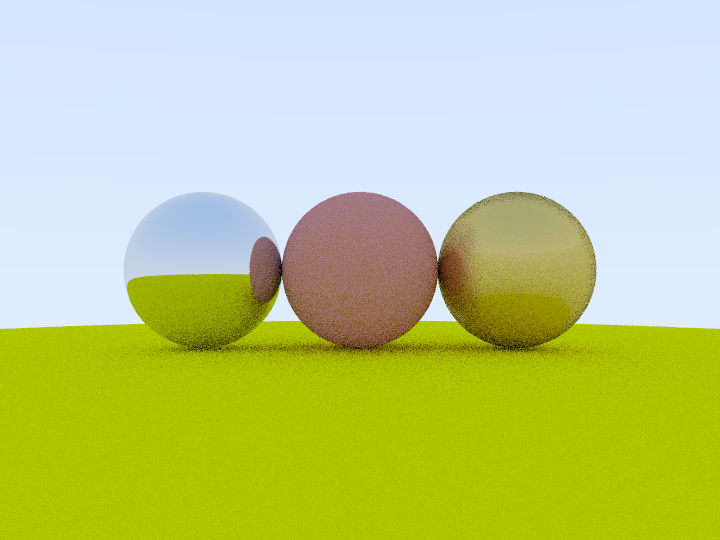
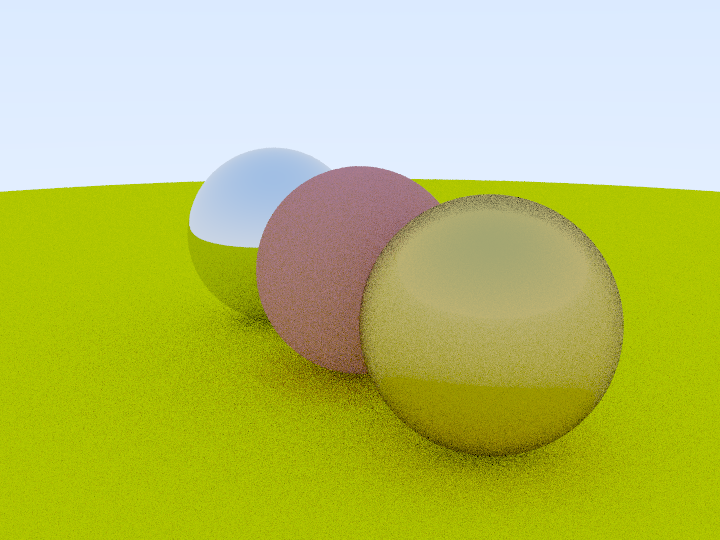
[MOD] 1. add blur for detph; 2. optimize code;

diff --git a/engine/rrt/RrtTest.cpp b/engine/rrt/RrtTest.cpp
@@ -56,11 +56,40 @@ void RrtTest::main()
 	path.append("/RrtTest.png");
 
 	RrtCamera camera;
-	camera.setPosition(glm::vec3(0.f, 0.f, 4.5f));
-	camera.setLookAt(glm::vec3(0.f, 0.f, -1.f));
+	camera.setPosition(glm::vec3(3.5f, 1.f, 2.f));
+	camera.setLookAt(glm::vec3(0.f, 0.f, 0.f));
 	camera.setViewportSize(glm::vec2(width, height));
 	camera.setFov(35);
+	//camera.setApertureLen(0.06f);
 	camera.apply();
+
+	HittableList world;
+	std::shared_ptr<Hittable> sphereCenter = std::make_shared<Sphere>(glm::vec3(0.f, 0.f, 0.f), 0.5f);
+	std::shared_ptr<Matl> centerMatl = std::make_shared<LambDiffuse>(glm::vec3(0.7f, 0.3f, 0.3f));
+	sphereCenter->setMatl(centerMatl);
+
+	std::shared_ptr<Hittable> sphereLeft = std::make_shared<Sphere>(glm::vec3(-1.f, 0.f, 0.f), 0.5f);
+	std::shared_ptr<Matl> leftMatl = std::make_shared<Metal>(glm::vec3(0.8f, 0.8f, 0.8f));
+	sphereLeft->setMatl(leftMatl);
+
+	std::shared_ptr<Hittable> sphereRight = std::make_shared<Sphere>(glm::vec3(1.f, 0.f, 0.f), 0.5f);
+	std::shared_ptr<Matl> rightMatl = std::make_shared<Metal>(glm::vec3(0.8f, 0.6f, 0.2f));
+	static_cast<Metal*>(rightMatl.get())->setFluzzy(0.5f);
+	sphereRight->setMatl(rightMatl);
+
+	// todo: fix the dilectric material's bug when total internal reflection is enabled
+	/*std::shared_ptr<Hittable> sphereRight = std::make_shared<Sphere>(glm::vec3(1.f, 0.f, 0.f), 0.5f);
+	std::shared_ptr<Matl> rightMatl = std::make_shared<Dilectric>(1.5f);
+	sphereRight->setMatl(rightMatl);*/
+
+	std::shared_ptr<Hittable> sphereGround = std::make_shared<Sphere>(glm::vec3(0.f, -100.5f, 0.f), 100.f);
+	std::shared_ptr<Matl> groundMatl = std::make_shared<LambDiffuse>(glm::vec3(0.8f, 0.8f, 0.f));
+	sphereGround->setMatl(groundMatl);
+
+	world.add(sphereCenter);
+	world.add(sphereLeft);
+	world.add(sphereRight);
+	world.add(sphereGround);
 
 	uint8_t* data = (uint8_t *)std::calloc(width * height * channel, sizeof(uint8_t));
 	if (!data)
@@ -69,7 +98,7 @@ void RrtTest::main()
 		assert(0);
 	}
 
-	draw(camera, width, height, channel, data);
+	draw(camera, world, width, height, channel, 10, 5, data);
 
 	int ret = stbi_write_png(path.c_str(), width, height, channel, data, 0);
 	if (ret == 0)
@@ -85,39 +114,9 @@ void RrtTest::main()
 	g_running.store(false);
 }
 
-void RrtTest::draw(const RrtCamera& camera, int width, int height, int channel, uint8_t* data)
+void RrtTest::draw(const RrtCamera& camera, const HittableList& obj, const int width, const int height, const int channel,
+	               const int sampleCnt, const int reflectCnt, uint8_t* data)
 {
-	HittableList world;
-	std::shared_ptr<Hittable> sphereCenter = std::make_shared<Sphere>(glm::vec3(0.f, 0.f, -1.f), 0.5f);
-	std::shared_ptr<Matl> centerMatl = std::make_shared<LambDiffuse>(glm::vec3(0.7f, 0.3f, 0.3f));
-	sphereCenter->setMatl(centerMatl);
-
-	std::shared_ptr<Hittable> sphereLeft = std::make_shared<Sphere>(glm::vec3(-1.f, 0.f, -1.f), 0.5f);
-	std::shared_ptr<Matl> leftMatl = std::make_shared<Metal>(glm::vec3(0.8f, 0.8f, 0.8f));
-	sphereLeft->setMatl(leftMatl);
-
-	std::shared_ptr<Hittable> sphereRight = std::make_shared<Sphere>(glm::vec3(1.f, 0.f, -1.f), 0.5f);
-	std::shared_ptr<Matl> rightMatl = std::make_shared<Metal>(glm::vec3(0.8f, 0.6f, 0.2f));
-	static_cast<Metal*>(rightMatl.get())->setFluzzy(0.5f);
-	sphereRight->setMatl(rightMatl);
-
-	// todo: fix the dilectric material's bug when total internal reflection is enabled
-	/*std::shared_ptr<Hittable> sphereRight = std::make_shared<Sphere>(glm::vec3(1.f, 0.f, -1.f), 0.5f);
-	std::shared_ptr<Matl> rightMatl = std::make_shared<Dilectric>(1.5f);
-	sphereRight->setMatl(rightMatl);*/
-
-	std::shared_ptr<Hittable> sphereGround = std::make_shared<Sphere>(glm::vec3(0.f, -100.5f, -1.f), 100.f);
-	std::shared_ptr<Matl> groundMatl = std::make_shared<LambDiffuse>(glm::vec3(0.8f, 0.8f, 0.f));
-	sphereGround->setMatl(groundMatl);
-
-	world.add(sphereCenter);
-	world.add(sphereLeft);
-	world.add(sphereRight);
-	world.add(sphereGround);
-
-	const int sampleCnt = 10;
-	const int reflectCnt = 5;
-
 	int outputRow, outputCol;
 	float u, v;
 
@@ -137,7 +136,7 @@ void RrtTest::draw(const RrtCamera& camera, int width, int height, int channel, 
 				u = float(col) + GfxLib::random();
 				v = float(row) + GfxLib::random();
 				Ray ray = camera.getRay(u, v);
-				glm::vec3 ret = rayColor(ray, world, reflectCnt);
+				glm::vec3 ret = rayColor(ray, obj, reflectCnt);
 				sampleColor = sampleColor + ret * scale;
 			}
 

diff --git a/engine/rrt/tools/RrtCamera.cpp b/engine/rrt/tools/RrtCamera.cpp
@@ -1,12 +1,22 @@
 #include <cmath>
+#include <cassert>
 #include <glm/gtc/matrix_transform.hpp>
 
 #include "RrtCamera.h"
+#include "GfxLib.h"
 
-RrtCamera::RrtCamera() : m_focalLen(1.f), m_fov(45.f), m_viewportSize(500.f, 500.f),
+#include "Logger.h"
+
+#ifdef LOCAL_TAG
+#undef LOCAL_TAG
+#endif
+#define LOCAL_TAG "RrtCamera"
+
+RrtCamera::RrtCamera() : m_focalLen(1.f), m_fov(45.f), m_apertureLen(0.f), m_viewportSize(500.f, 500.f),
                          m_camPos(0.f), m_lookAt(0.f, 0.f, -1.f), 
 	                     m_camFront(0.f), m_camRight(0.f), m_camUp(0.f),
-	                     m_viewMat(1.f), m_prjMat(1.f), m_viewportMat(1.f), m_invMat(1.f)
+	                     m_camMat(1.f), m_prjMat(1.f), m_screenMat(1.f), m_invMat(1.f),
+	                     m_camInv(1.f), m_screenPrjInv(1.f)
 {
 	apply();
 }
@@ -15,19 +25,19 @@ RrtCamera::~RrtCamera() = default;
 
 void RrtCamera::apply()
 {
-	calcViewMat();
+	calcCamMat();
 	calcPrjMat();
-	calcViewportMat();
+	calcScreenMat();
 	calcInvMat();
 }
 
-void RrtCamera::calcViewMat()
+void RrtCamera::calcCamMat()
 {
 	m_camFront = glm::normalize(m_camPos - m_lookAt);
 	m_camRight = glm::normalize(glm::cross(glm::vec3(0.f, 1.f, 0.f), m_camFront));
 	m_camUp = glm::normalize(glm::cross(m_camFront, m_camRight));
 
-	m_viewMat = glm::lookAt(m_camPos, m_camPos - m_camFront, m_camUp);
+	m_camMat = glm::lookAt(m_camPos, m_camPos - m_camFront, m_camUp);
 }
 
 void RrtCamera::calcPrjMat()
@@ -35,37 +45,75 @@ void RrtCamera::calcPrjMat()
 	m_prjMat = glm::perspective(glm::radians(m_fov), m_viewportSize.x / m_viewportSize.y, m_focalLen, 10.f);
 }
 
-void RrtCamera::calcViewportMat()
+void RrtCamera::calcScreenMat()
 {
-	m_viewportMat = glm::mat4(1.f);
+	m_screenMat = glm::mat4(1.f);
 
 	float width = m_viewportSize.x;
 	float height = m_viewportSize.y;
 	float d = 1.f;
-	m_viewportMat[0][0] = width / 2.f;
-	m_viewportMat[1][1] = height / 2.f;
-	m_viewportMat[2][2] = d / 2.f;
-	m_viewportMat[3][0] = 0 + width / 2.f;
-	m_viewportMat[3][1] = 0 + height / 2.f;
-	m_viewportMat[3][2] = d / 2.f;
+	m_screenMat[0][0] = width / 2.f;
+	m_screenMat[1][1] = height / 2.f;
+	m_screenMat[2][2] = d / 2.f;
+	m_screenMat[3][0] = 0 + width / 2.f;
+	m_screenMat[3][1] = 0 + height / 2.f;
+	m_screenMat[3][2] = d / 2.f;
 }
 
 void RrtCamera::calcInvMat()
 {
-	glm::mat4 mat = m_viewportMat * m_prjMat * m_viewMat;
+	glm::mat4 mat = m_screenMat * m_prjMat * m_camMat;
 	m_invMat = glm::inverse(mat);
+
+	m_camInv = glm::inverse(m_camMat);
+
+	mat = m_screenMat * m_prjMat;
+	m_screenPrjInv = glm::inverse(mat);
 }
 
 Ray RrtCamera::getRay(float u, float v) const
 {
 	// homogeneous coordinate, mark w as 1.f to make it a point
 	glm::vec4 dst = glm::vec4(u, v, 0.f, 1.f);
-	dst = m_invMat * dst;
-
 	Ray r;
-	r.setOrigin(m_camPos);
-	r.setDirection(glm::normalize(glm::vec3(dst.x, dst.y, dst.z) - m_camPos));
+
+	float radius = m_apertureLen * 0.5f;
+	if (GfxLib::nearZero(radius))
+	{
+		dst = m_invMat * dst;
+		r.setOrigin(m_camPos);
+		r.setDirection(glm::vec3(dst.x, dst.y, dst.z) - m_camPos);
+	}
+	else
+	{
+		glm::vec4 tmp = m_screenPrjInv * dst;
+
+		glm::vec3 dir = glm::normalize(glm::vec3(tmp));
+		float t = m_focalLen / std::abs(dir.z);
+
+		glm::vec3 originCamSpace = glm::vec3(GfxLib::random(0.f, radius), GfxLib::random(0.f, radius), 0.f);
+		glm::vec3 dstCamSpace = originCamSpace + dir * t;
+
+		tmp = m_camInv * glm::vec4(originCamSpace, 1.f);
+		glm::vec3 originWorld = glm::vec3(tmp);
+
+		tmp = m_camInv * glm::vec4(dstCamSpace, 1.f);
+		glm::vec3 dstWorld = glm::vec3(tmp);
+
+		r.setOrigin(originWorld);
+		r.setDirection(dstWorld - originWorld);
+	}
 	return r;
+}
+
+void RrtCamera::setApertureLen(float len)
+{
+	if (len < 0.f)
+	{
+		LOG_ERR("invalid input aperture length[%f]", len);
+		assert(0);
+	}
+	m_apertureLen = len;
 }
 
 void RrtCamera::setFocalLen(float focal)

diff --git a/engine/rrt/tools/include/RrtCamera.h b/engine/rrt/tools/include/RrtCamera.h
@@ -15,6 +15,7 @@ public:
 
 	void apply();
 
+	void setApertureLen(float len);
 	void setFocalLen(float focal);
 	void setFov(float fov);
 	void setLookAt(const glm::vec3& at);
@@ -22,13 +23,14 @@ public:
 	void setViewportSize(const glm::vec2& size);
 
 private:
-	void calcViewMat();
+	void calcCamMat();
 	void calcPrjMat();
-	void calcViewportMat();
+	void calcScreenMat();
 	void calcInvMat();
 
 	float m_focalLen;
 	float m_fov;
+	float m_apertureLen;
 	// x is width, y is height
 	glm::vec2 m_viewportSize;
 
@@ -36,8 +38,8 @@ private:
 	glm::vec3 m_lookAt;
 	glm::vec3 m_camFront, m_camRight, m_camUp;
 
-	glm::mat4 m_viewMat, m_prjMat, m_viewportMat;
-	glm::mat4 m_invMat;
+	glm::mat4 m_camMat, m_prjMat, m_screenMat;
+	glm::mat4 m_invMat, m_camInv, m_screenPrjInv;
 };
 
 #endif

diff --git a/engine/rrt/include/RrtTest.h b/engine/rrt/include/RrtTest.h
@@ -14,7 +14,8 @@ public:
 	static bool checkRunning();
 
 private:
-	static void draw(const RrtCamera &camera, int width, int height, int channel, uint8_t* data);
+	static void draw(const RrtCamera &camera, const HittableList& obj, const int width, const int height, const int channel,
+		             const int sampleCnt, const int reflectCnt, uint8_t* data);
 	static glm::vec3 rayColor(const Ray& ray, const HittableList& obj, int reflectDepth);
 
 	RrtTest() {};

diff --git a/engine/gfx/GfxLib.cpp b/engine/gfx/GfxLib.cpp
@@ -43,8 +43,14 @@ glm::vec3 GfxLib::gamma2Correct(const glm::vec3& color)
 
 bool GfxLib::nearZero(const glm::vec3& input)
 {
-    const double s = 1e-8;
+    const double s = 1e-6;
     return (std::abs(input.x) < s && std::abs(input.y) < s && std::abs(input.z) < s);
+}
+
+bool GfxLib::nearZero(float input)
+{
+    const float s = 1e-6;
+    return std::abs(input) < s;
 }
 
 double GfxLib::random()

diff --git a/engine/gfx/include/GfxLib.h b/engine/gfx/include/GfxLib.h
@@ -15,6 +15,7 @@ public:
 	static glm::vec3 gamma2Correct(const glm::vec3& color);
 
 	static bool nearZero(const glm::vec3 &input);
+	static bool nearZero(float input);
 
 	static double random();
 	static double random(double min, double max);
